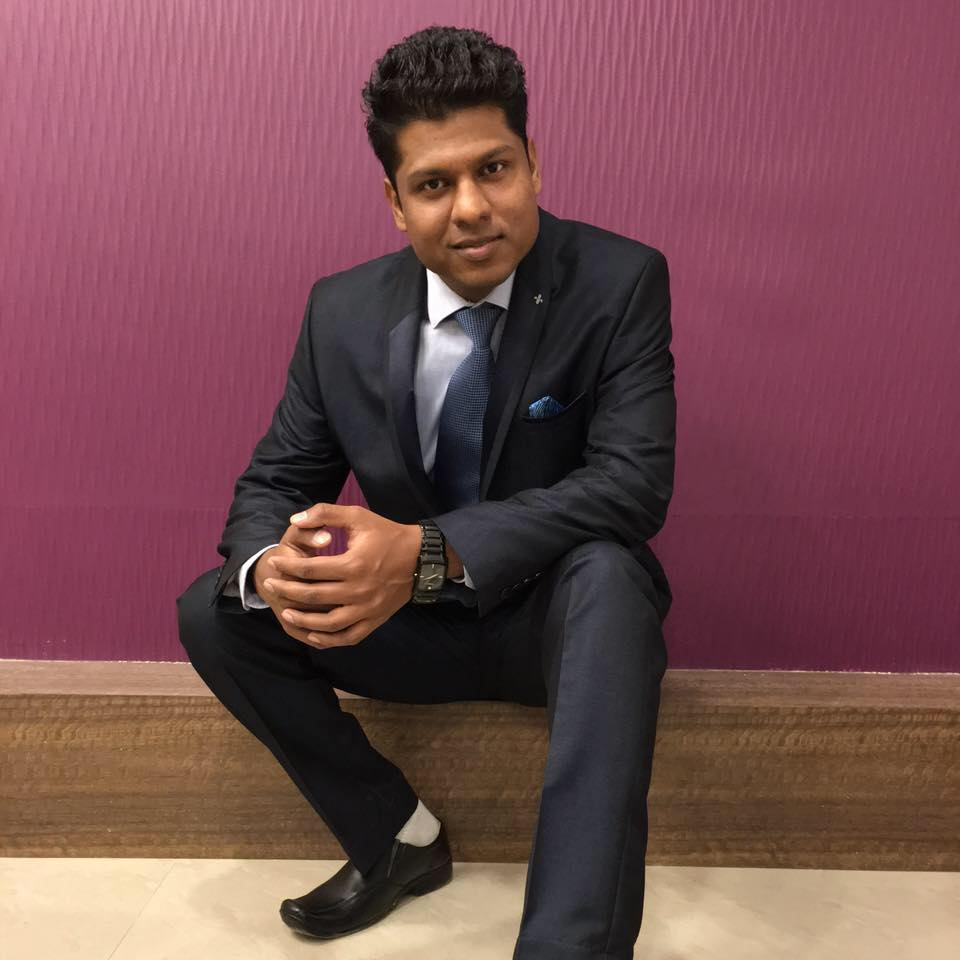
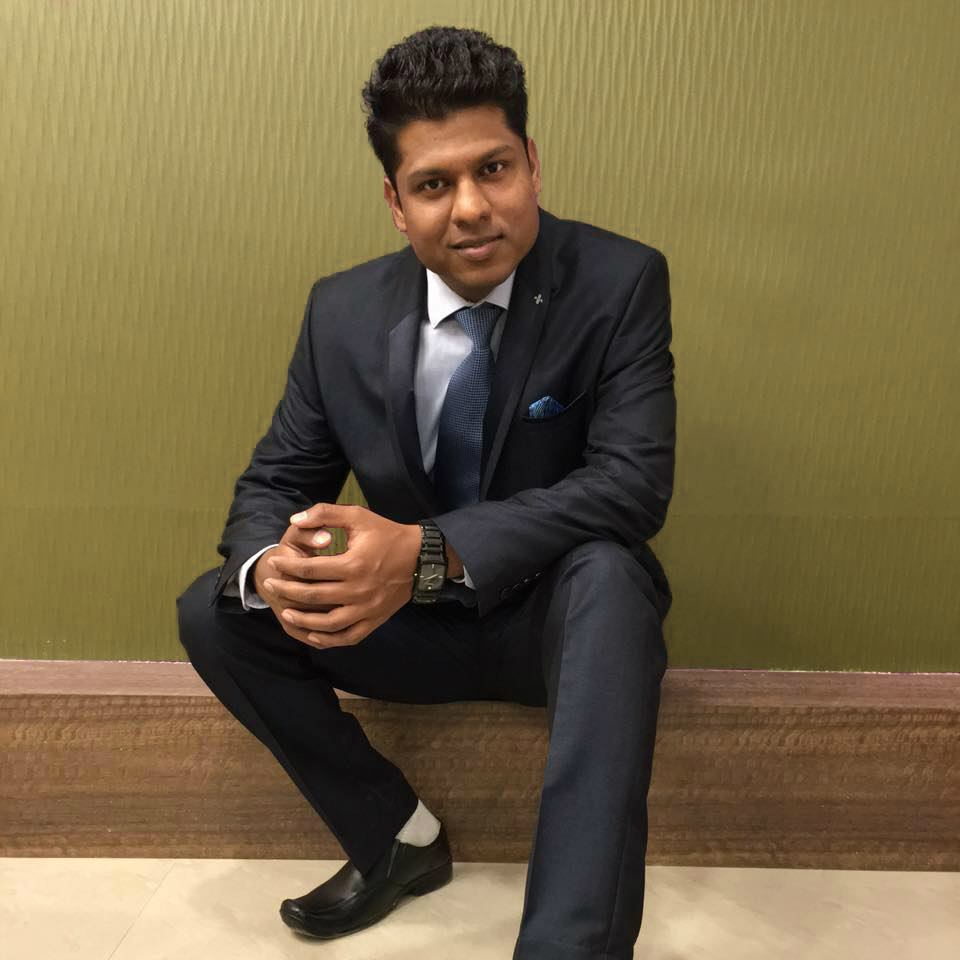
Update some details and Images

diff --git a/index.html b/index.html
@@ -142,13 +142,13 @@
             </div>
             <div class="col-xs-3">
               <div class="facts-count animaper">
-                <div class="num"  data-content="18" data-num="18">0</div>
+                <div class="num"  data-content="21" data-num="21">0</div>
                 <h6>Github repositories</h6>
               </div>
             </div>
             <div class="col-xs-3">
               <div class="facts-count animaper">
-                <div class="num" data-content="452" data-num="452">0</div>
+                <div class="num" data-content="472" data-num="472">0</div>
                 <h6>Stack Overflow reputation</h6>
               </div>
             </div>
@@ -381,7 +381,7 @@
           <div class="piechart-holder animaper" data-skcolor="#8F8F8F">
             <div class="row">
               <div class="piechart col-xs-3">
-                <span class="chart" data-percent="75">
+                <span class="chart" data-percent="80">
                   <span class="percent"></span>
                 </span>
                 <div class="description"><h4>Development</h4></div>
@@ -406,10 +406,10 @@
                   </div>
                   <!-- Ruby -->
                   <div class="title">
-                    <span>Ruby</span>
+                    <span>NodeJS</span>
                   </div>
-                  <div class="skill-bar-percent">55%</div>
-                  <div class="skillbar-bg" data-percent="55%">
+                  <div class="skill-bar-percent">70%</div>
+                  <div class="skillbar-bg" data-percent="70%">
                     <div class="custom-skillbar" style="width: 0%;"></div>
                   </div>
                 </div>
@@ -430,7 +430,7 @@
                   <div class="title">
                     <span>Hindi</span>
                   </div>
-                  <div class="skill-bar-percent">90%</div>
+                  <div class="skill-bar-percent">80%</div>
                   <div class="skillbar-bg" data-percent="90%">
                     <div class="custom-skillbar" style="width: 0%;"></div>
                   </div>
@@ -438,7 +438,7 @@
                   <div class="title">
                     <span>English</span>
                   </div>
-                  <div class="skill-bar-percent">65%</div>
+                  <div class="skill-bar-percent">70%</div>
                   <div class="skillbar-bg" data-percent="65%">
                     <div class="custom-skillbar" style="width: 0%;"></div>
                   </div>
@@ -446,7 +446,7 @@
                   <div class="title">
                     <span>Punjabi</span>
                   </div>
-                  <div class="skill-bar-percent">35%</div>
+                  <div class="skill-bar-percent">30%</div>
                   <div class="skillbar-bg" data-percent="35%">
                     <div class="custom-skillbar" style="width: 0%;"></div>
                   </div>
@@ -496,7 +496,7 @@
               </div>
               <ul class="footer-contacts">
                 <li><a href="http://bluejson.com" target="_blank"><i class="fa fa-bar-chart"></i> Blue JSON</a></li>
-                <li><a href="http://marutsakha.com" target="_blank"><i class="fa fa-briefcase"></i> Marutsakha</a></li>
+                <li><a href="http://corman.marutsakha.com" target="_blank"><i class="fa fa-tasks"></i> Corman</a></li>
                 <li><a href="http://sharelibros.com" target="_blank"><i class="fa fa-book"></i> Share Libros</a></li>
               </ul>
             </div>
@@ -504,7 +504,7 @@
           <div class="row">
             <div class="col-sm-12">
               <div class="copyright">
-                <p>&copy; Marutsakha 2016 Developed by <a href="#">Yogesh Kumar</a> | All rights reserved.</p>
+                <p>&copy; 2016 Developed by <a href="#">Yogesh Kumar</a> | All rights reserved.</p>
                 <a href="#top" class="to-top"><i class="fa fa-angle-double-up"></i></a>
               </div>
             </div>

diff --git a/css/style.css b/css/style.css
@@ -49,7 +49,7 @@ h3.media-heading, .st-separator, .st-separator:before, .btn-holo, .footer-info h
   background-position: center;
   background-repeat: repeat;
   background-origin: content-box;
-  background-image: url(../images/about.jpg);
+  background-image: url(../images/side.jpg);
 }
 .left .overlay {
   position: absolute;
@@ -122,6 +122,9 @@ a.top-header, a.top-header:hover, a.top-header:focus {
   background-origin: content-box;
   background-image: url(../images/bg.jpg);
   background-color: #111;
+  box-shadow: inset 0 0 8px rgba(0,0,0,.6);
+	-moz-box-shadow: inset 0 0 8px rgba(0,0,0,.6);
+	-webkit-box-shadow: inset 0 0 8px rgba(0,0,0,.6);
 }
 .main-section {
   width: 100%;
@@ -269,6 +272,9 @@ h3.media-heading:before {
 }
 .me-img img {
   width: 100%;
+  box-shadow: inset 0 0 8px rgba(0,0,0,.6);
+	-moz-box-shadow: inset 0 0 8px rgba(0,0,0,.6);
+	-webkit-box-shadow: inset 0 0 8px rgba(0,0,0,.6);
 }
 .about-text .name, .about-text .title {
   font-size: 26px;
